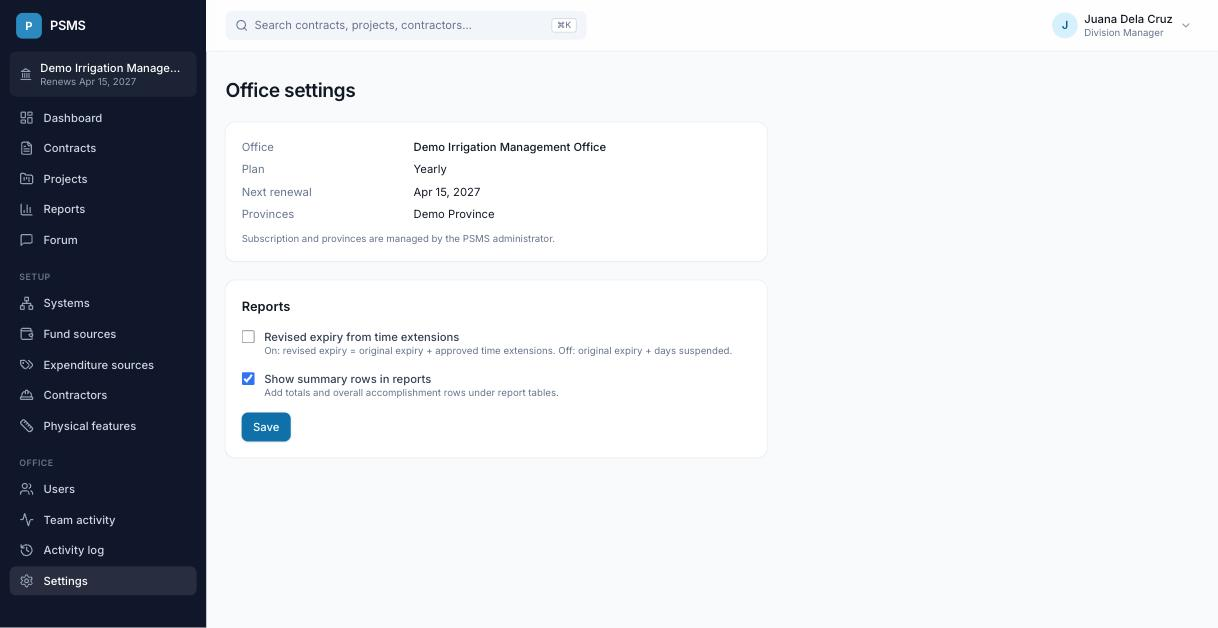
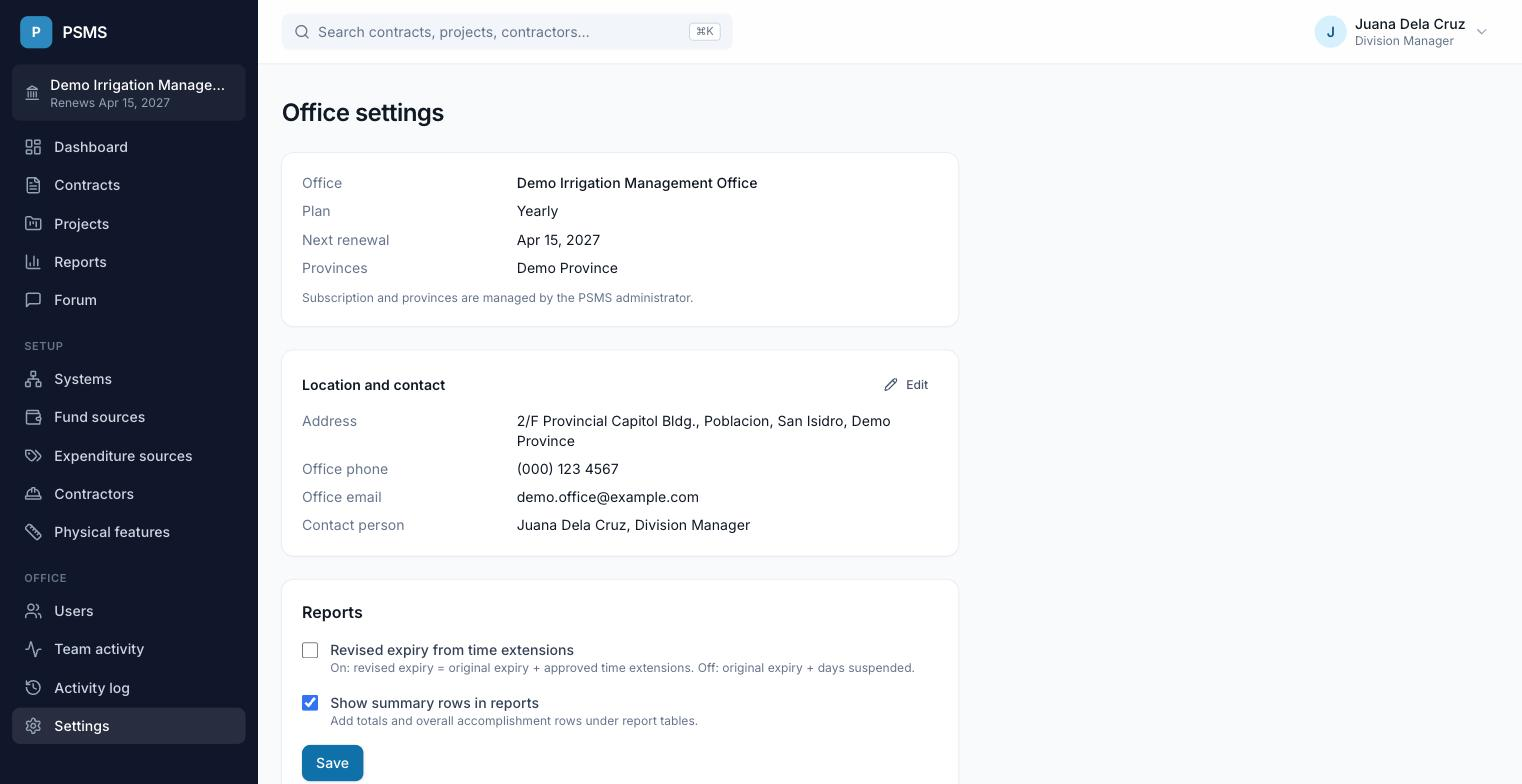
Document office location and contact details

diff --git a/docs/guide/office.md b/docs/guide/office.md
@@ -4,6 +4,16 @@
 
 ![Office settings](/screens/settings.jpg)
 
+## Location and contact
+
+Every office has an address (street or building, city or municipality, province), an office phone, an office email and a
+contact person with their position. You enter these when registering, and can change them any time with **Edit** on the
+**Location and contact** card.
+
+Offices registered before these were required are asked to fill them in once: the next time an **Account Holder** signs
+in, PSMS opens the **Office details** form first. The rest of the team isn't interrupted and can keep working while this
+is pending.
+
 ## Subscription
 
 The top of the page shows your plan (monthly or yearly), the **next renewal date** and your office's provinces.

diff --git a/docs/guide/basics.md b/docs/guide/basics.md
@@ -9,8 +9,8 @@ Account Holder gave you.
 
 - **Forgot your password?** Ask your office's Account Holder. They can set a new one for you (see [Users](/guide/team#editing-a-user)).
 - **Change your password** any time from the menu under your name (top right) → **Change password**.
-- **New office?** Choose **Start a 30-day free trial** on the sign-in page to register your office. You become its
-  [Account Holder](/guide/roles) and can add your team.
+- **New office?** Choose **Start a 30-day free trial** on the sign-in page to register your office. You'll need the
+  office's address, phone, email and a contact person. You become its [Account Holder](/guide/roles) and can add your team.
 
 ## The layout
 

diff --git a/docs/whats-new.md b/docs/whats-new.md
@@ -28,6 +28,8 @@ See [Roles and permissions](/guide/roles).
 
 ## New
 
+- **[Office location and contact details](/guide/office#location-and-contact):** every office now records its address,
+  phone, email and contact person. Account Holders of existing offices are asked to fill them in once.
 - **[Custom reports](/guide/custom-reports):** build and save your own contract and project reports with your choice of
   columns, filters, grouping and chart, and export them to Excel or PDF.
 - A redesigned **dashboard** with status breakdown, overall S-curve and the contracts that need attention.
